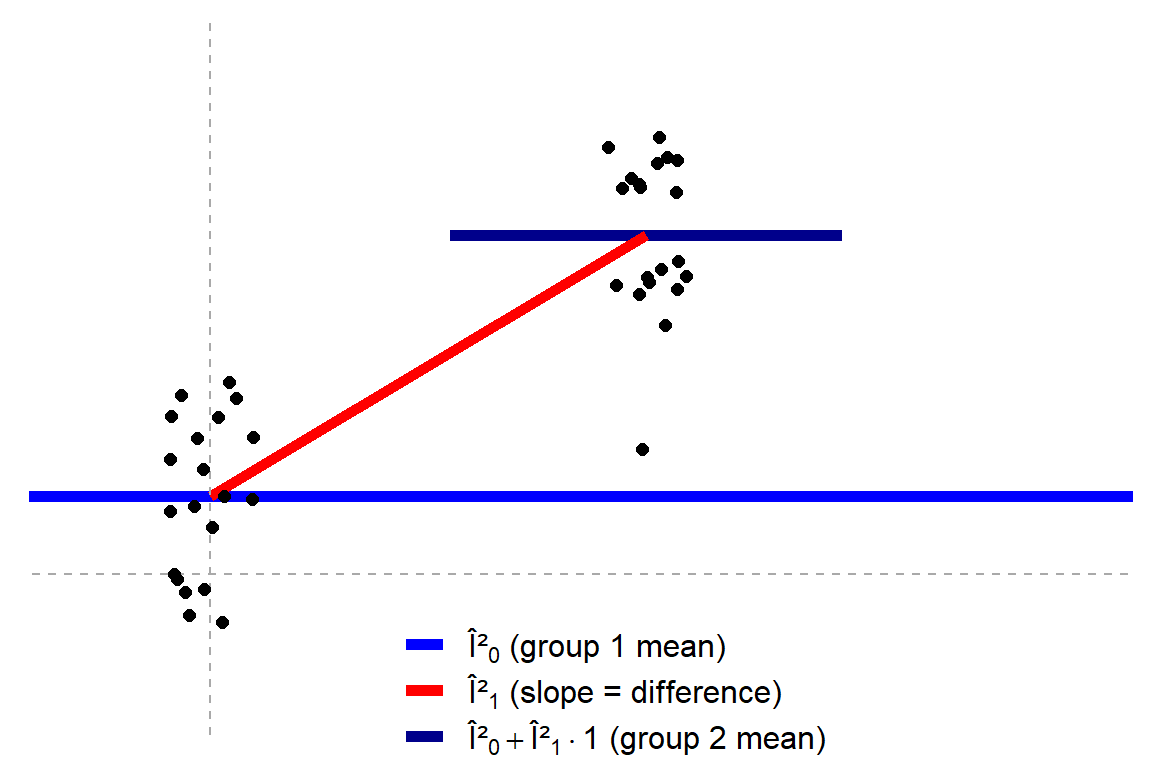
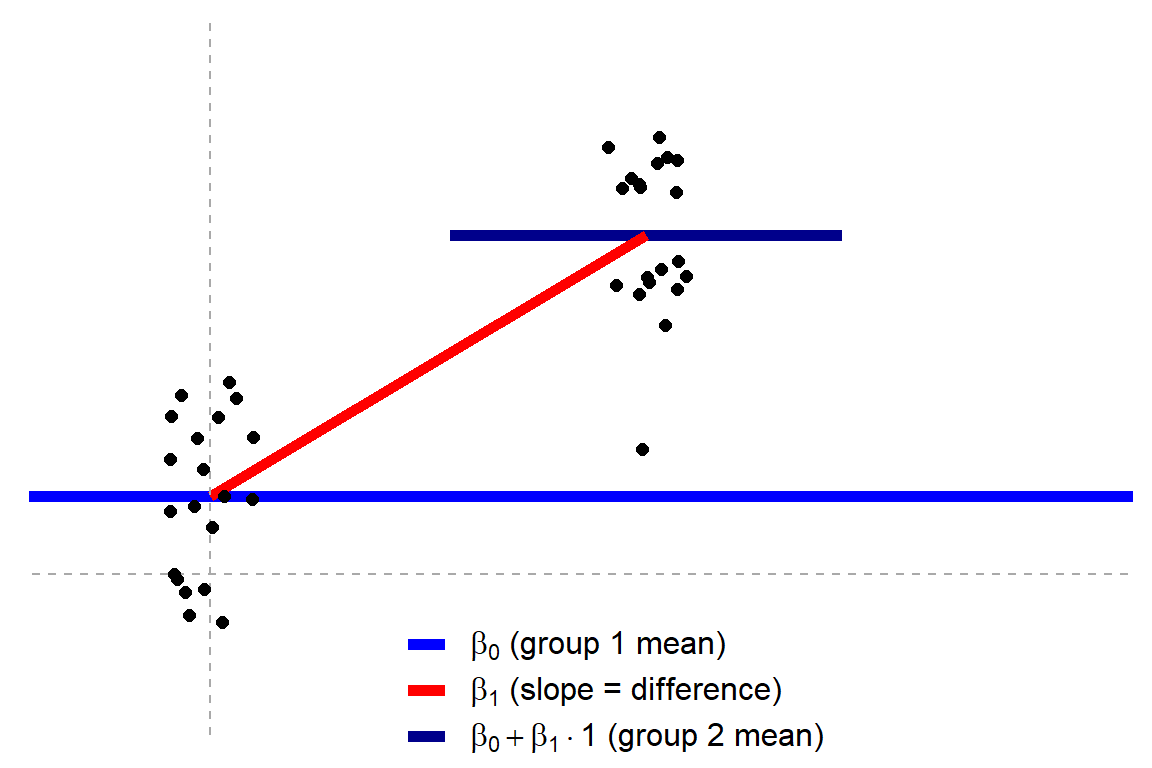
Fix betas gone wrong in plots

Changed region(s): [[0.4062, 0.8125, 0.7188, 1.0]]

diff --git a/index.html b/index.html
@@ -470,7 +470,7 @@ P_pearson = ggplot(D_correlation, aes(x=X1*0.5+0.2, y=X2*0.5+0.4)) +
   geom_segment(x=-100, xend=100, 
                y=intercept_pearson, yend=intercept_pearson, 
                lwd=2, aes(color=&quot;beta_0&quot;)) + 
-  scale_color_manual(name=NULL, values=c(&quot;blue&quot;, &quot;red&quot;), labels=c(bquote(Î²[0]*&quot; (intercept)&quot;), bquote(Î²[1]*&quot; (slope)&quot;)))
+  scale_color_manual(name=NULL, values=c(&quot;blue&quot;, &quot;red&quot;), labels=c(bquote(beta[0]*&quot; (intercept)&quot;), bquote(beta[1]*&quot; (slope)&quot;)))
   
 theme_axis(P_pearson, legend.position=c(0.4, 0.9))</code></pre>
 <p><img src="index_files/figure-html/unnamed-chunk-4-1.png" width="576" style="display: block; margin: auto;" /></p>
@@ -490,7 +490,7 @@ P_spearman = ggplot(D_correlation, aes(x=rank(X1), y=rank(X2))) +
   geom_segment(x=-100, xend=100, 
                y=intercept_spearman, yend=intercept_spearman, 
                lwd=2, aes(color=&#39;beta_0&#39;)) + 
-  scale_color_manual(name=NULL, values=c(&quot;blue&quot;, &quot;red&quot;), labels=c(bquote(Î²[0]*&quot; (intercept)&quot;), bquote(Î²[1]*&quot; (slope)&quot;)))
+  scale_color_manual(name=NULL, values=c(&quot;blue&quot;, &quot;red&quot;), labels=c(bquote(beta[0]*&quot; (intercept)&quot;), bquote(beta[1]*&quot; (slope)&quot;)))
 
 # Stich together using patchwork
 (theme_axis(P_pearson, legend.position=c(0.5, 0.1)) + geom_text(aes(label=label_num), nudge_y=0.1, size=3, color=&#39;dark gray&#39;) + labs(title=&#39;         Pearson&#39;)) + (theme_axis(P_spearman, xlim=c(-7.5, 30), ylim=c(-7.5, 30), legend.position=c(0.5, 0.1)) + labs(title=&#39;         Spearman&#39;))</code></pre>
@@ -614,7 +614,7 @@ D_t1 = data.frame(y=rnorm_fixed(20, 0.5, 0.6),
 
 P_t1 = ggplot(D_t1, aes(y=y, x=0)) + 
   stat_summary(fun.y=mean, geom = &quot;errorbar&quot;, aes(ymax = ..y.., ymin = ..y.., color=&#39;beta_0&#39;), lwd=2) +
-  scale_color_manual(name=NULL, values=c(&quot;blue&quot;), labels=c(bquote(Î²[0]*&quot; (intercept)&quot;))) +
+  scale_color_manual(name=NULL, values=c(&quot;blue&quot;), labels=c(bquote(beta[0]*&quot; (intercept)&quot;))) +
   
   geom_text(aes(label=round(y, 1)), nudge_x = 0.2, size=3, color=&#39;dark gray&#39;) + 
   labs(title=&#39;         T-test&#39;)
@@ -624,7 +624,7 @@ D_t1_rank = data.frame(y = signed_rank(D_t1$y))
 
 P_t1_rank = ggplot(D_t1_rank, aes(y=y, x=0)) + 
   stat_summary(fun.y=mean, geom = &quot;errorbar&quot;, aes(ymax = ..y.., ymin = ..y.., color=&#39;beta_0&#39;), lwd=2) +
-  scale_color_manual(name=NULL, values=c(&quot;blue&quot;), labels=c(bquote(Î²[0]*&quot; (intercept)&quot;))) +
+  scale_color_manual(name=NULL, values=c(&quot;blue&quot;), labels=c(bquote(beta[0]*&quot; (intercept)&quot;))) +
 
   geom_text(aes(label=y), nudge_x=0.2, size=3, color=&#39;dark gray&#39;) + 
   labs(title=&#39;         Wilcoxon&#39;)
@@ -870,7 +870,7 @@ P_t2 = ggplot(D_t2, aes(x=x, y=y)) +
   geom_segment(x=-10, xend=10, y=0.3, yend=0.3, lwd=2, aes(color=&#39;beta_0&#39;)) + 
   geom_segment(x=0, xend=1, y=0.3, yend=1.3, lwd=2, aes(color=&#39;beta_1&#39;)) + 
   
-  scale_color_manual(name=NULL, values=c(&quot;blue&quot;, &quot;red&quot;, &quot;darkblue&quot;), labels=c(bquote(Î²[0]*&quot; (group 1 mean)&quot;), bquote(Î²[1]*&quot; (slope = difference)&quot;), bquote(Î²[0]+Î²[1]%.%1*&quot; (group 2 mean)&quot;)))
+  scale_color_manual(name=NULL, values=c(&quot;blue&quot;, &quot;red&quot;, &quot;darkblue&quot;), labels=c(bquote(beta[0]*&quot; (group 1 mean)&quot;), bquote(beta[1]*&quot; (slope = difference)&quot;), bquote(beta[0]+beta[1]%.%1*&quot; (group 2 mean)&quot;)))
   #scale_x_discrete(breaks=c(0.5, 1.5), labels=c(&#39;1&#39;, &#39;2&#39;))
 
 theme_axis(P_t2, jitter=TRUE, xlim=c(-0.3, 2), legend.position=c(0.53, 0.08))</code></pre>
@@ -1075,9 +1075,9 @@ P_anova1 = ggplot(D_anova1, aes(x=x, y=y)) +
   scale_color_manual(
     name=NULL, values=c(&quot;blue&quot;, &quot;red&quot;, &quot;darkblue&quot;), 
     labels=c(
-      bquote(Î²[0]*&quot; (group 1 mean)&quot;), 
-      bquote(Î²[1]*&quot;, &quot;*Î²[2]*&quot;,  etc. (slopes/differences to &quot;*Î²[0]*&quot;)&quot;),
-      bquote(Î²[0]*&quot;+&quot;*Î²[1]*&quot;, &quot;*Î²[0]*&quot;+&quot;*Î²[2]*&quot;, etc. (absolute intercepts)&quot;)
+      bquote(beta[0]*&quot; (group 1 mean)&quot;), 
+      bquote(beta[1]*&quot;, &quot;*beta[2]*&quot;,  etc. (slopes/differences to &quot;*beta[0]*&quot;)&quot;),
+      bquote(beta[0]*&quot;+&quot;*beta[1]*&quot;, &quot;*beta[0]*&quot;+&quot;*beta[2]*&quot;, etc. (absolute intercepts)&quot;)
     )
   )
   
